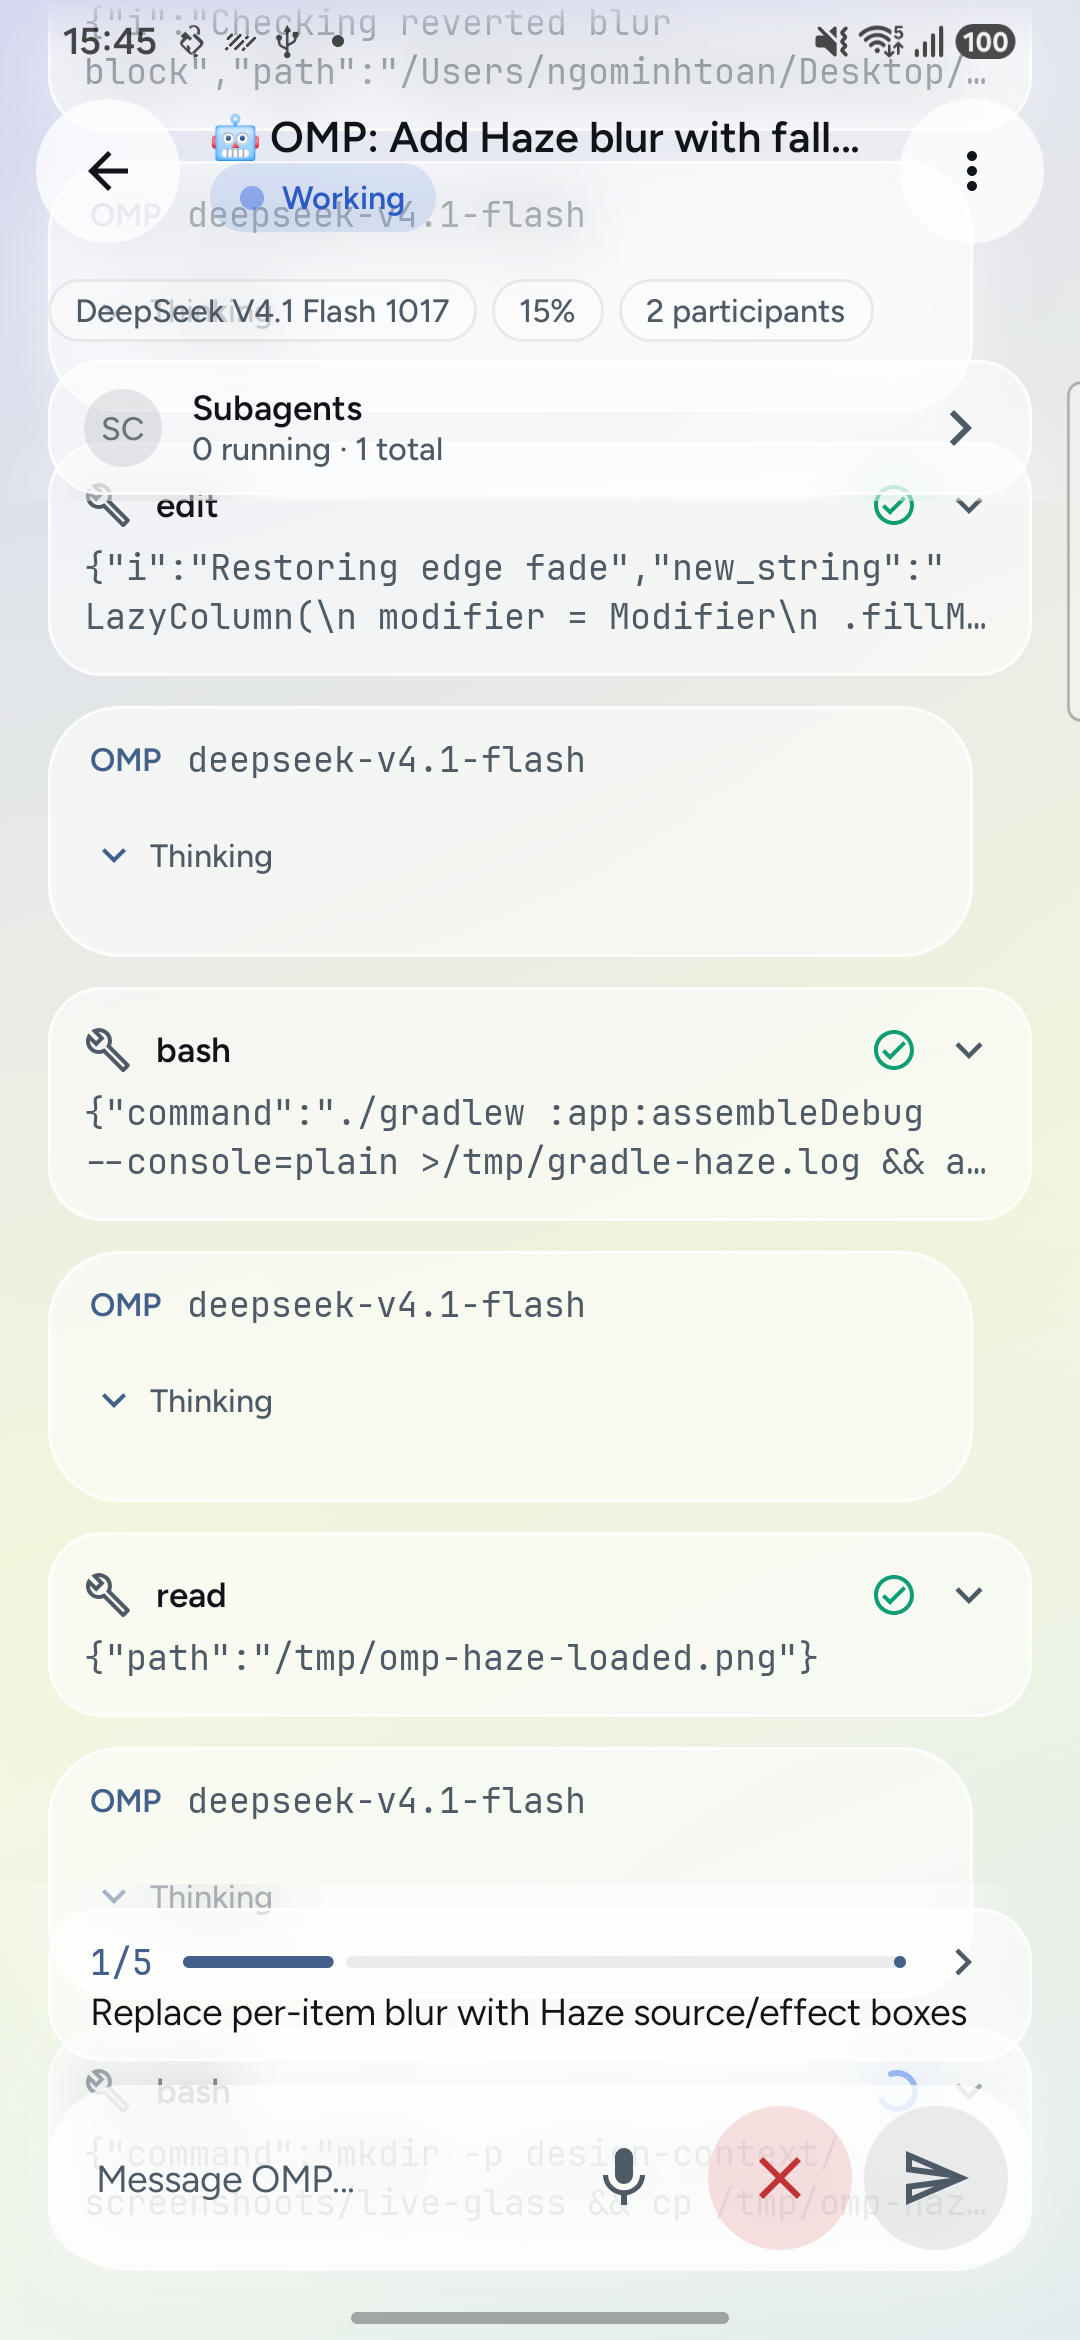
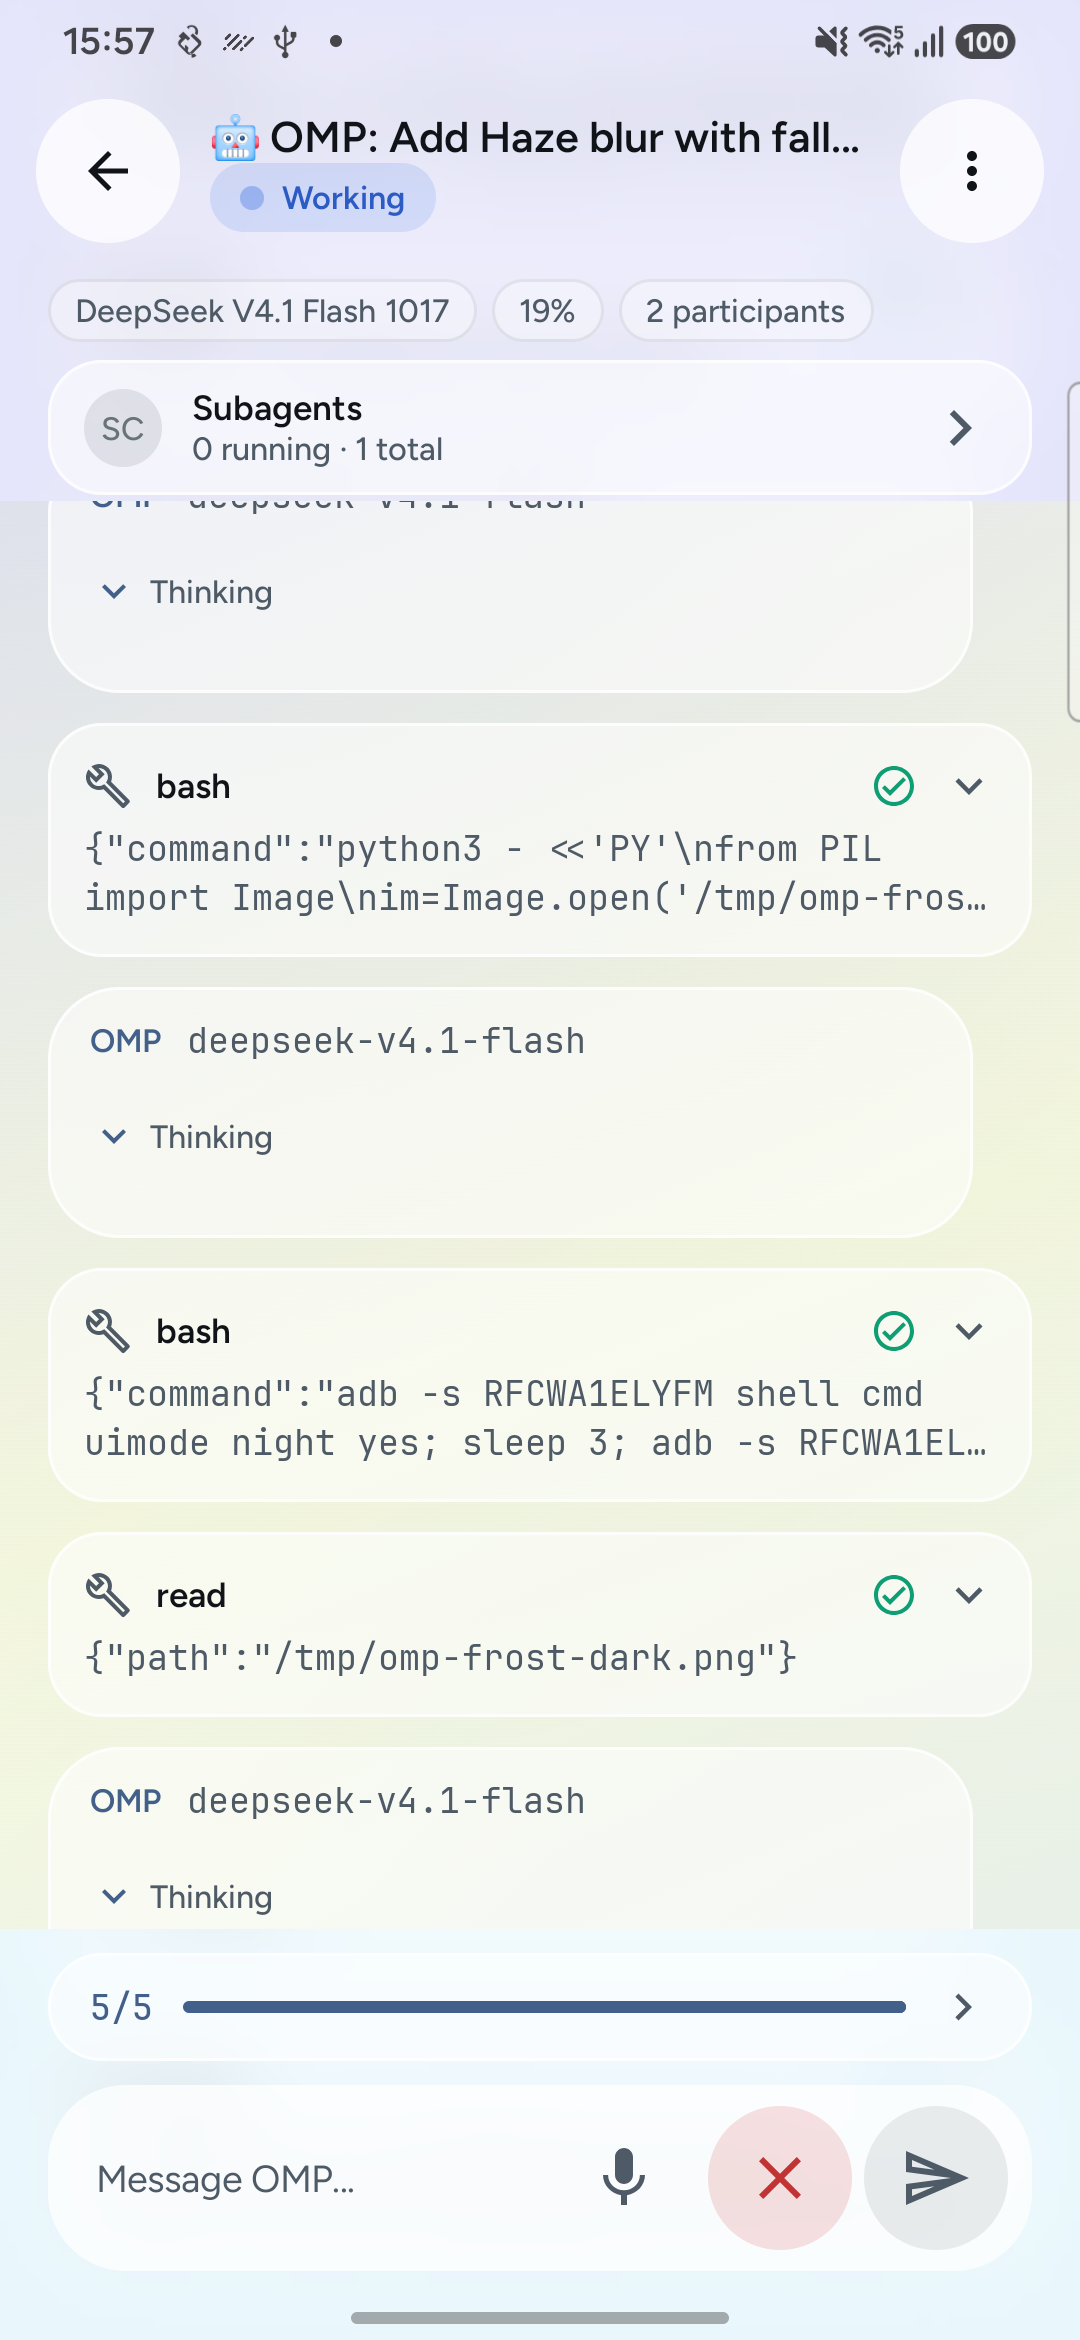
Frost chat chrome with field-matched glass

diff --git a/app/src/main/kotlin/com/ompsessionconnect/ui/detail/SessionDetailScreen.kt b/app/src/main/kotlin/com/ompsessionconnect/ui/detail/SessionDetailScreen.kt
@@ -135,6 +135,7 @@ import com.ompsessionconnect.ui.theme.CodeTextStyle
 import com.ompsessionconnect.ui.theme.LiveGlassShapes
 import com.ompsessionconnect.ui.theme.LocalLiveGlass
 import com.ompsessionconnect.ui.theme.LocalSessionStatusColors
+import dev.chrisbanes.haze.HazeTint
 import dev.chrisbanes.haze.hazeEffect
 import dev.chrisbanes.haze.hazeSource
 import dev.chrisbanes.haze.rememberHazeState
@@ -322,16 +323,22 @@ private fun SessionDetailContent(
 
   val blurAvailable = Build.VERSION.SDK_INT >= Build.VERSION_CODES.S
   val legacyInsets = !blurAvailable
-  val chromeBlur = if (blurAvailable) {
-    Modifier.hazeEffect(hazeState) {
-      blurRadius = 18.dp
-      backgroundColor = Color.Transparent
-      blurredEdgeTreatment = BlurredEdgeTreatment.Rectangle
-      noiseFactor = 0f
+  // Frosted-glass equivalent of HazeMaterials.thin(): a field-colored base plus a
+  // same-color veil, so each chrome box blends with its gradient region.
+  fun chromeBlur(field: Color): Modifier =
+    if (blurAvailable) {
+      Modifier.hazeEffect(hazeState) {
+        blurRadius = 24.dp
+        backgroundColor = field
+        tints = listOf(
+          HazeTint(field.copy(alpha = if (tokens.dark) 0.45f else 0.35f)),
+        )
+        blurredEdgeTreatment = BlurredEdgeTreatment.Rectangle
+        noiseFactor = 0f
+      }
+    } else {
+      Modifier
     }
-  } else {
-    Modifier
-  }
 
   Box(modifier = Modifier.fillMaxSize()) {
     // Keep the transcript in its own Haze source layer; the fixed chrome effects below
@@ -396,7 +403,7 @@ private fun SessionDetailContent(
         .align(Alignment.TopCenter)
         .fillMaxWidth()
         .zIndex(3f)
-        .then(chromeBlur)
+        .then(chromeBlur(tokens.fieldA))
         .then(
           if (blurAvailable) {
             Modifier
@@ -506,7 +513,7 @@ private fun SessionDetailContent(
         .align(Alignment.BottomCenter)
         .fillMaxWidth()
         .zIndex(3f)
-        .then(chromeBlur),
+        .then(chromeBlur(tokens.fieldC)),
     ) {
       if (snapshot != null) {
         Column(
